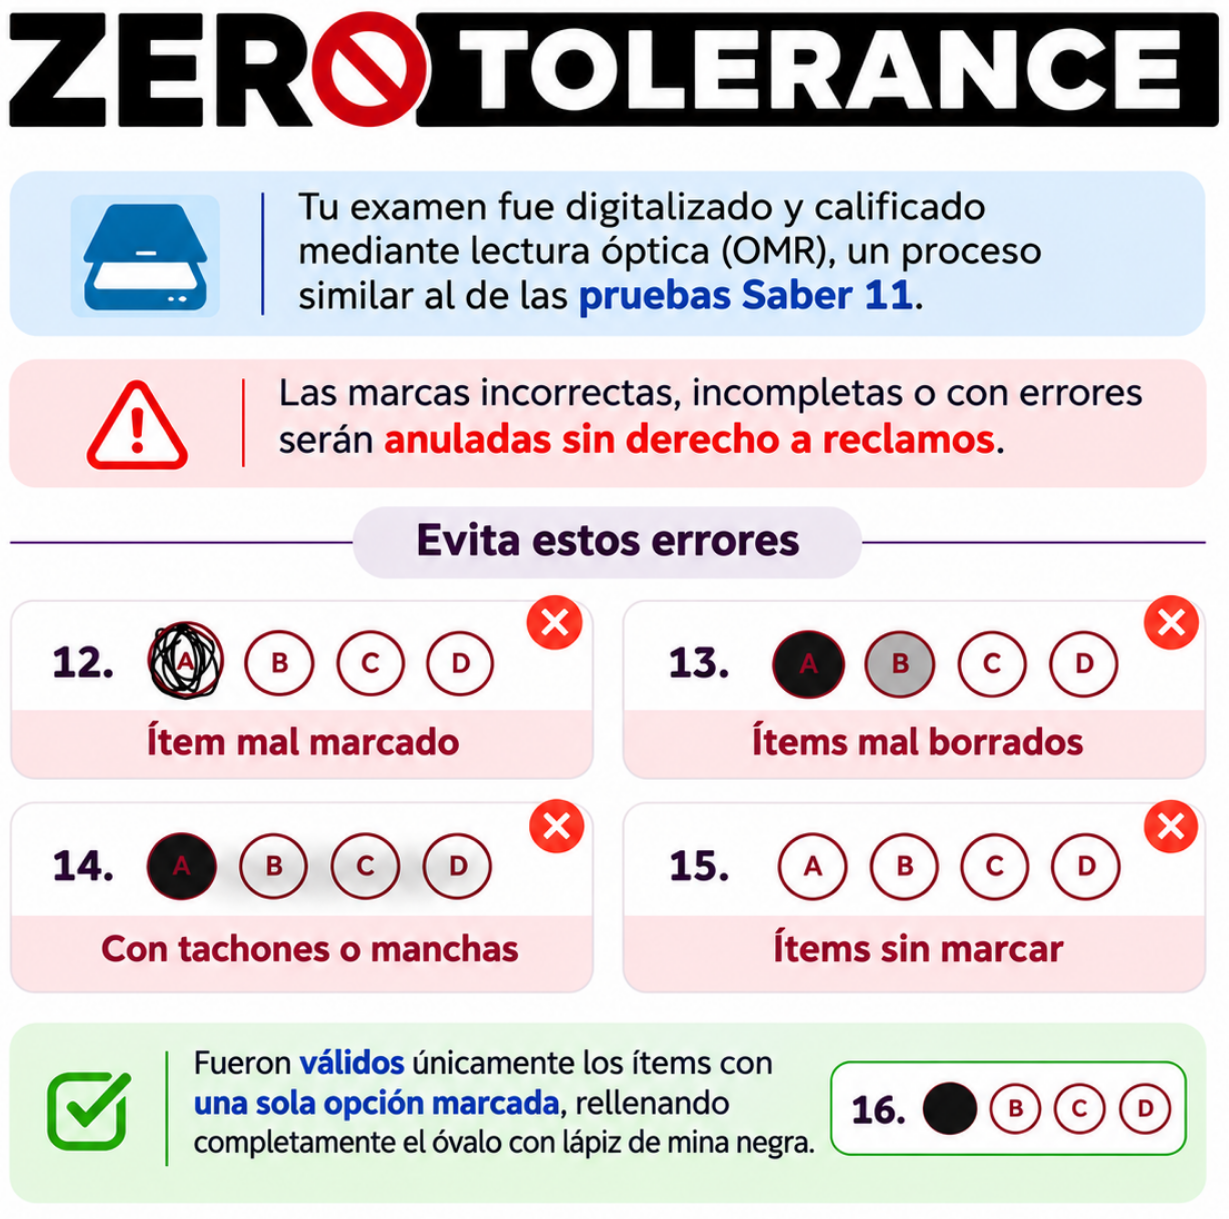
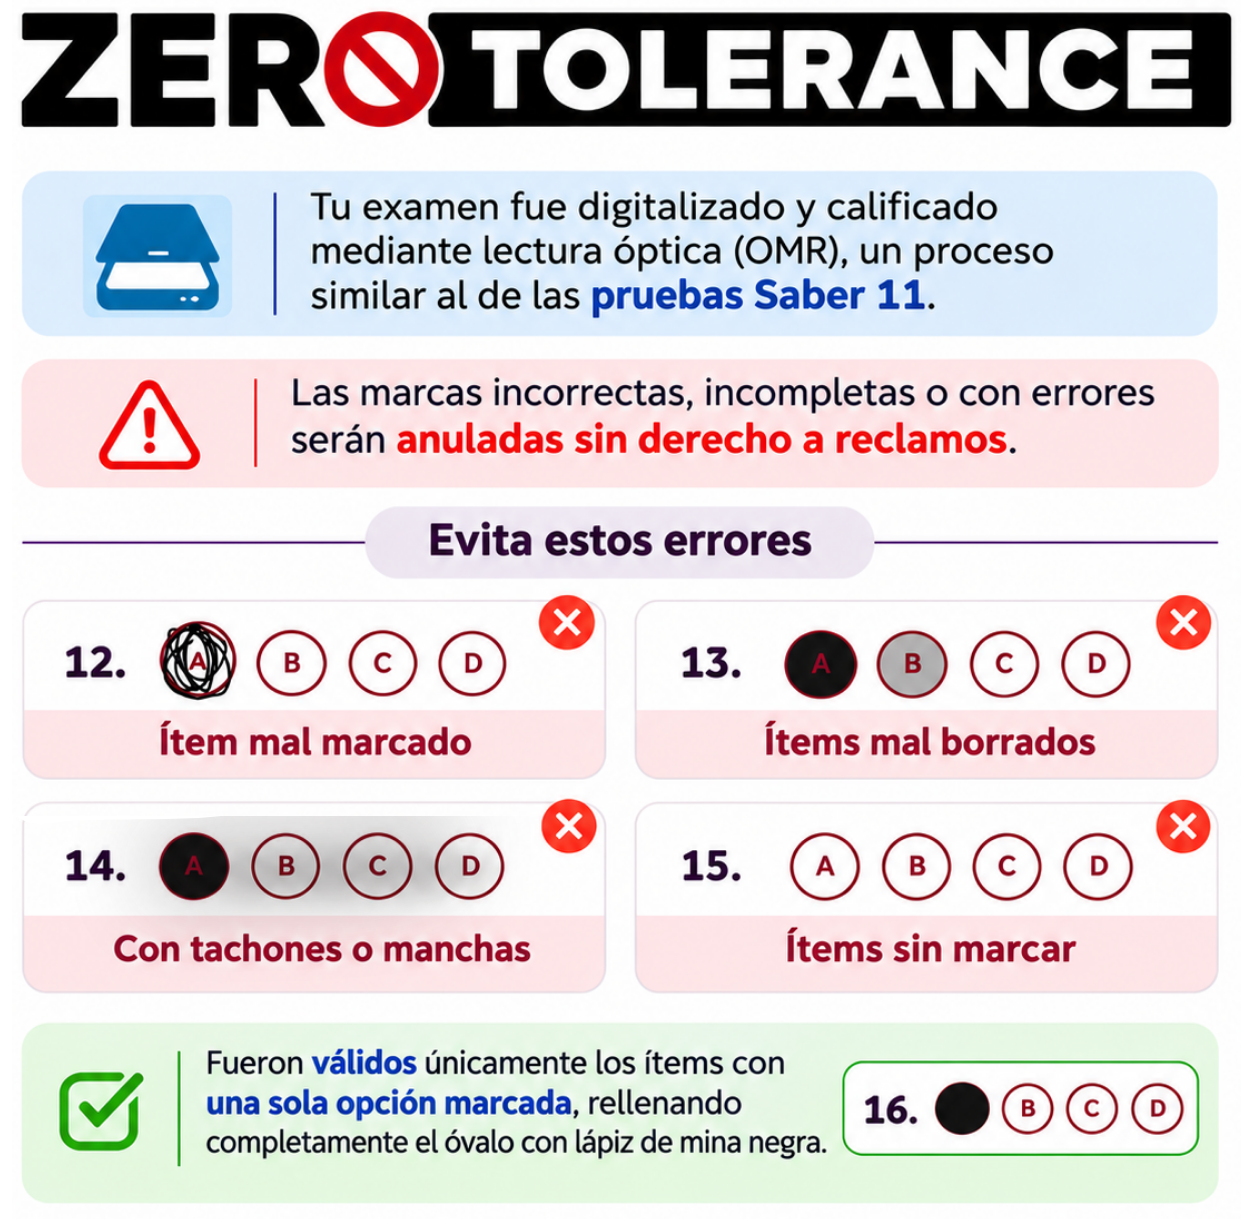
v175.107: actualizar imagen ZERO TOLERANCE y añadir márgenes internos

diff --git a/index.html b/index.html
@@ -8,7 +8,7 @@
   <meta name="apple-mobile-web-app-capable" content="yes" />
   <meta name="apple-mobile-web-app-status-bar-style" content="black-translucent" />
   <meta name="apple-mobile-web-app-title" content="Roque Objetiva" />
-  <link rel="manifest" href="manifest.webmanifest?v=175.106" />
+  <link rel="manifest" href="manifest.webmanifest?v=175.107" />
   <link rel="apple-touch-icon" href="icons/apple-touch-icon.png" />
   <link rel="icon" type="image/png" sizes="32x32" href="icons/favicon-32.png" />
   <link rel="icon" type="image/png" sizes="16x16" href="icons/favicon-16.png" />
@@ -16,33 +16,33 @@
   <link rel="preconnect" href="https://fonts.googleapis.com">
   <link rel="preconnect" href="https://fonts.gstatic.com" crossorigin>
   <link href="https://fonts.googleapis.com/css2?family=Montserrat:wght@400;500;600;700;800;900&display=swap" rel="stylesheet">
-  <link rel="stylesheet" href="css/app.css?v=175.106" />
-  <link rel="stylesheet" href="css/login-performance.css?v=175.106" />
-  <link rel="stylesheet" href="css/ediciones.css?v=175.106" />
-  <link rel="stylesheet" href="css/admin-navigation.css?v=175.106" />
-  <link rel="stylesheet" href="css/teacher-navigation.css?v=175.106" />
-  <link rel="stylesheet" href="css/shared-hero.css?v=175.106" />
-  <link rel="stylesheet" href="css/student-editions.css?v=175.106" />
-  <link rel="stylesheet" href="css/student-dock.css?v=175.106" />
-  <link rel="stylesheet" href="css/student-dashboard.css?v=175.106" />
-  <link rel="stylesheet" href="css/student-subject-modal.css?v=175.106" />
-  <link rel="stylesheet" href="css/seasonal-hero.css?v=175.106" />
-  <link rel="stylesheet" href="css/teacher-dashboard.css?v=175.106" />
-  <link rel="stylesheet" href="css/coordinator-mover.css?v=175.106" />
-  <link rel="stylesheet" href="css/screen-hero.css?v=175.106" />
-  <link rel="stylesheet" href="css/admin-personal.css?v=175.106" />
-  <link rel="stylesheet" href="css/admin-asignaturas-areas.css?v=175.106" />
-  <link rel="stylesheet" href="css/admin-restricciones.css?v=175.106" />
-  <link rel="stylesheet" href="css/admin-personal-motion.css?v=175.106" />
-  <link rel="stylesheet" href="css/admin-estadisticas.css?v=175.106" />
-  <link rel="stylesheet" href="css/ranking-institucional.css?v=175.106" />
-  <link rel="stylesheet" href="css/admin-historial-accesos.css?v=175.106" />
-  <link rel="stylesheet" href="css/admin-claves.css?v=175.106" />
-  <link rel="stylesheet" href="css/consulta-estudiante.css?v=175.106" />
-  <link rel="stylesheet" href="css/christmas-login.css?v=175.106" />
-  <link rel="stylesheet" href="css/saber-global-modal.css?v=175.106" />
-  <link rel="stylesheet" href="css/dock-content-clearance.css?v=175.106" />
-  <link rel="stylesheet" href="css/zero-tolerance-modal.css?v=175.106" />
+  <link rel="stylesheet" href="css/app.css?v=175.107" />
+  <link rel="stylesheet" href="css/login-performance.css?v=175.107" />
+  <link rel="stylesheet" href="css/ediciones.css?v=175.107" />
+  <link rel="stylesheet" href="css/admin-navigation.css?v=175.107" />
+  <link rel="stylesheet" href="css/teacher-navigation.css?v=175.107" />
+  <link rel="stylesheet" href="css/shared-hero.css?v=175.107" />
+  <link rel="stylesheet" href="css/student-editions.css?v=175.107" />
+  <link rel="stylesheet" href="css/student-dock.css?v=175.107" />
+  <link rel="stylesheet" href="css/student-dashboard.css?v=175.107" />
+  <link rel="stylesheet" href="css/student-subject-modal.css?v=175.107" />
+  <link rel="stylesheet" href="css/seasonal-hero.css?v=175.107" />
+  <link rel="stylesheet" href="css/teacher-dashboard.css?v=175.107" />
+  <link rel="stylesheet" href="css/coordinator-mover.css?v=175.107" />
+  <link rel="stylesheet" href="css/screen-hero.css?v=175.107" />
+  <link rel="stylesheet" href="css/admin-personal.css?v=175.107" />
+  <link rel="stylesheet" href="css/admin-asignaturas-areas.css?v=175.107" />
+  <link rel="stylesheet" href="css/admin-restricciones.css?v=175.107" />
+  <link rel="stylesheet" href="css/admin-personal-motion.css?v=175.107" />
+  <link rel="stylesheet" href="css/admin-estadisticas.css?v=175.107" />
+  <link rel="stylesheet" href="css/ranking-institucional.css?v=175.107" />
+  <link rel="stylesheet" href="css/admin-historial-accesos.css?v=175.107" />
+  <link rel="stylesheet" href="css/admin-claves.css?v=175.107" />
+  <link rel="stylesheet" href="css/consulta-estudiante.css?v=175.107" />
+  <link rel="stylesheet" href="css/christmas-login.css?v=175.107" />
+  <link rel="stylesheet" href="css/saber-global-modal.css?v=175.107" />
+  <link rel="stylesheet" href="css/dock-content-clearance.css?v=175.107" />
+  <link rel="stylesheet" href="css/zero-tolerance-modal.css?v=175.107" />
 </head>
 <body>
   <noscript>
@@ -63,20 +63,20 @@
   <div id="toast" class="toast" aria-live="polite"></div>
   <div id="modal-root"></div>
 
-  <script src="config/supabase-config.js?v=175.106"></script>
-  <script src="js/admin-personal.js?v=175.106"></script>
-  <script src="js/admin-asignaturas-areas.js?v=175.106"></script>
-  <script src="js/admin-restricciones.js?v=175.106"></script>
-  <script src="js/admin-estadisticas.js?v=175.106"></script>
-  <script src="js/ranking-institucional.js?v=175.106"></script>
-  <script src="js/admin-claves.js?v=175.106"></script>
-  <script src="js/consulta-estudiante.js?v=175.106"></script>
-  <script src="js/screen-hero.js?v=175.106"></script>
-  <script src="js/device-audit.js?v=175.106"></script>
-  <script src="js/admin-historial-accesos.js?v=175.106"></script>
-  <script src="js/zero-tolerance-modal.js?v=175.106"></script>
-  <script src="js/app.js?v=175.106"></script>
-  <script src="js/ediciones.js?v=175.106"></script>
-  <script src="js/christmas-responsive.js?v=175.106"></script>
+  <script src="config/supabase-config.js?v=175.107"></script>
+  <script src="js/admin-personal.js?v=175.107"></script>
+  <script src="js/admin-asignaturas-areas.js?v=175.107"></script>
+  <script src="js/admin-restricciones.js?v=175.107"></script>
+  <script src="js/admin-estadisticas.js?v=175.107"></script>
+  <script src="js/ranking-institucional.js?v=175.107"></script>
+  <script src="js/admin-claves.js?v=175.107"></script>
+  <script src="js/consulta-estudiante.js?v=175.107"></script>
+  <script src="js/screen-hero.js?v=175.107"></script>
+  <script src="js/device-audit.js?v=175.107"></script>
+  <script src="js/admin-historial-accesos.js?v=175.107"></script>
+  <script src="js/zero-tolerance-modal.js?v=175.107"></script>
+  <script src="js/app.js?v=175.107"></script>
+  <script src="js/ediciones.js?v=175.107"></script>
+  <script src="js/christmas-responsive.js?v=175.107"></script>
 </body>
 </html>

diff --git a/service-worker.js b/service-worker.js
@@ -1,63 +1,63 @@
-const APP_VERSION = "v175.106";
-const CACHE_VERSION = "resultados-pwa-v175-106-zero-tolerance-image";
+const APP_VERSION = "v175.107";
+const CACHE_VERSION = "resultados-pwa-v175-107-zero-tolerance-image-gap";
 const CACHE_PREFIXES = ["resultados-pwa-", "resultados-pruebas-"];
 
 const APP_SHELL = [
   "./",
   "index.html",
-  "css/app.css?v=175.106",
-  "css/login-performance.css?v=175.106",
-  "css/christmas-login.css?v=175.106",
-  "css/ediciones.css?v=175.106",
-  "css/admin-navigation.css?v=175.106",
-  "css/teacher-navigation.css?v=175.106",
-  "css/teacher-dashboard.css?v=175.106",
-  "css/coordinator-mover.css?v=175.106",
-  "css/screen-hero.css?v=175.106",
-  "css/admin-personal.css?v=175.106",
-  "css/admin-asignaturas-areas.css?v=175.106",
-  "css/admin-restricciones.css?v=175.106",
-  "css/admin-personal-motion.css?v=175.106",
-  "css/admin-estadisticas.css?v=175.106",
-  "css/ranking-institucional.css?v=175.106",
-  "css/admin-historial-accesos.css?v=175.106",
-  "css/admin-claves.css?v=175.106",
-  "css/consulta-estudiante.css?v=175.106",
-  "css/saber-global-modal.css?v=175.106",
-  "css/dock-content-clearance.css?v=175.106",
-  "css/zero-tolerance-modal.css?v=175.106",
-  "css/shared-hero.css?v=175.106",
-  "css/seasonal-hero.css?v=175.106",
-  "css/student-editions.css?v=175.106",
-  "css/student-dock.css?v=175.106",
-  "css/student-dashboard.css?v=175.106",
-  "css/student-subject-modal.css?v=175.106",
-  "js/admin-personal.js?v=175.106",
-  "js/admin-asignaturas-areas.js?v=175.106",
-  "js/admin-restricciones.js?v=175.106",
-  "js/admin-estadisticas.js?v=175.106",
-  "js/ranking-institucional.js?v=175.106",
-  "js/admin-claves.js?v=175.106",
-  "js/consulta-estudiante.js?v=175.106",
-  "js/screen-hero.js?v=175.106",
-  "js/device-audit.js?v=175.106",
-  "js/admin-historial-accesos.js?v=175.106",
-  "js/zero-tolerance-modal.js?v=175.106",
-  "js/app.js?v=175.106",
-  "js/christmas-responsive.js?v=175.106",
-  "js/ediciones.js?v=175.106",
+  "css/app.css?v=175.107",
+  "css/login-performance.css?v=175.107",
+  "css/christmas-login.css?v=175.107",
+  "css/ediciones.css?v=175.107",
+  "css/admin-navigation.css?v=175.107",
+  "css/teacher-navigation.css?v=175.107",
+  "css/teacher-dashboard.css?v=175.107",
+  "css/coordinator-mover.css?v=175.107",
+  "css/screen-hero.css?v=175.107",
+  "css/admin-personal.css?v=175.107",
+  "css/admin-asignaturas-areas.css?v=175.107",
+  "css/admin-restricciones.css?v=175.107",
+  "css/admin-personal-motion.css?v=175.107",
+  "css/admin-estadisticas.css?v=175.107",
+  "css/ranking-institucional.css?v=175.107",
+  "css/admin-historial-accesos.css?v=175.107",
+  "css/admin-claves.css?v=175.107",
+  "css/consulta-estudiante.css?v=175.107",
+  "css/saber-global-modal.css?v=175.107",
+  "css/dock-content-clearance.css?v=175.107",
+  "css/zero-tolerance-modal.css?v=175.107",
+  "css/shared-hero.css?v=175.107",
+  "css/seasonal-hero.css?v=175.107",
+  "css/student-editions.css?v=175.107",
+  "css/student-dock.css?v=175.107",
+  "css/student-dashboard.css?v=175.107",
+  "css/student-subject-modal.css?v=175.107",
+  "js/admin-personal.js?v=175.107",
+  "js/admin-asignaturas-areas.js?v=175.107",
+  "js/admin-restricciones.js?v=175.107",
+  "js/admin-estadisticas.js?v=175.107",
+  "js/ranking-institucional.js?v=175.107",
+  "js/admin-claves.js?v=175.107",
+  "js/consulta-estudiante.js?v=175.107",
+  "js/screen-hero.js?v=175.107",
+  "js/device-audit.js?v=175.107",
+  "js/admin-historial-accesos.js?v=175.107",
+  "js/zero-tolerance-modal.js?v=175.107",
+  "js/app.js?v=175.107",
+  "js/christmas-responsive.js?v=175.107",
+  "js/ediciones.js?v=175.107",
   "version.json",
   "config/data-manifest.json",
   "config/site-config.json",
-  "config/supabase-config.js?v=175.106",
-  "manifest.webmanifest?v=175.106",
+  "config/supabase-config.js?v=175.107",
+  "manifest.webmanifest?v=175.107",
   "icons/icon-192.png",
   "icons/icon-512.png",
   "icons/maskable-512.png",
   "icons/apple-touch-icon.png",
   "icons/favicon-16.png",
   "icons/favicon-32.png",
-  "assets/logo-principal.png?v=175.106",
+  "assets/logo-principal.png?v=175.107",
   "assets/navidad/arbol.webp",
   "assets/navidad/hoja.webp",
   "assets/navidad/regalo1.webp",
@@ -67,7 +67,7 @@ const APP_SHELL = [
   "assets/navidad/cafe.webp",
   "assets/navidad/nieves.webp",
   "assets/ZERO.png",
-  "assets/zero-tolerance-aviso.png",
+  "assets/zero-tolerance-aviso.png?v=175.107",
   "ICONOS/artistica.png",
   "ICONOS/ciencias-naturales.png",
   "ICONOS/ciencias-sociales-y-ciudadania.png",

diff --git a/css/zero-tolerance-modal.css b/css/zero-tolerance-modal.css
@@ -1,4 +1,4 @@
-/* v175.106 · Una imagen PNG, un botón, sin estructura visual adicional. */
+/* v175.107 · Una imagen PNG, un botón, sin estructura visual adicional. */
 #modal-root .zero-tolerance-backdrop {
   position: fixed;
   inset: 0;
@@ -18,7 +18,7 @@
   max-width: 700px !important;
   max-height: calc(100dvh - 16px) !important;
   min-height: 0;
-  padding: 0 !important;
+  padding: 14px !important;
   margin: auto;
   overflow: hidden !important;
   border: 0;
@@ -33,7 +33,7 @@
   flex-direction: column;
   min-height: 0;
   width: 100%;
-  gap: 0 !important;
+  gap: 12px !important;
   padding: 0 !important;
   margin: 0;
   overflow: hidden !important;
@@ -57,8 +57,8 @@
 #modal-root .zt106-actions {
   box-sizing: border-box;
   flex: none;
-  padding: 12px;
-  border-top: 1px solid #e4e9ee;
+  padding: 0;
+  border-top: 0;
   background: #fff;
 }
 #modal-root .zt106-understood {
@@ -80,7 +80,7 @@
 #modal-root .zt106-understood:hover { background: #155f8f; }
 #modal-root .zt106-understood:focus-visible { outline: 2px solid #073d62; outline-offset: -4px; }
 @media (max-height: 520px) {
-  #modal-root .zt106-actions { padding: 8px; }
+  #modal-root .zt106-actions { padding: 0; }
   #modal-root .zt106-understood { min-height: 42px; }
 }
 @media (prefers-reduced-motion: reduce) {

diff --git a/js/zero-tolerance-modal.js b/js/zero-tolerance-modal.js
@@ -1,12 +1,12 @@
-/* v175.106 · Usa únicamente el PNG suministrado y el botón Entendido. */
+/* v175.107 · Usa únicamente el PNG suministrado y el botón Entendido. */
 (() => {
   "use strict";
   function render() {
     return `<div class="modal-body zero-tolerance-body zt106-body">
       <div class="zt106-image-wrap">
-        <img class="zt106-image" src="assets/zero-tolerance-aviso.png"
+        <img class="zt106-image" src="assets/zero-tolerance-aviso.png?v=175.107"
           alt="ZERO TOLERANCE. El examen fue digitalizado mediante lectura óptica OMR. Las marcas incorrectas, incompletas o con errores fueron anuladas. Solo fueron válidos los ítems con una sola opción completamente rellenada."
-          width="1229" height="1219" decoding="sync" fetchpriority="high">
+          width="1242" height="1219" decoding="sync" fetchpriority="high">
       </div>
       <div class="zt106-actions">
         <button type="button" class="zt106-understood" data-action="close-modal">Entendido</button>

diff --git a/js/app.js b/js/app.js
@@ -2,7 +2,7 @@
 (() => {
   "use strict";
 
-  const APP_VERSION = "v175.106";
+  const APP_VERSION = "v175.107";
   const SUBJECT_AREA_UNASSIGNED = "__UNASSIGNED__";
 
   const app = document.getElementById("app");
